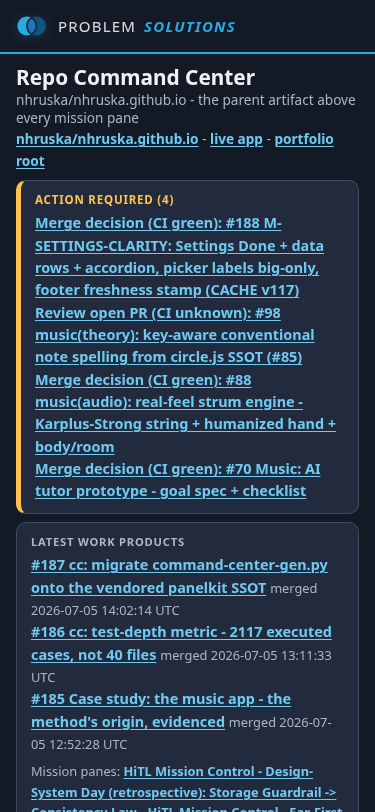
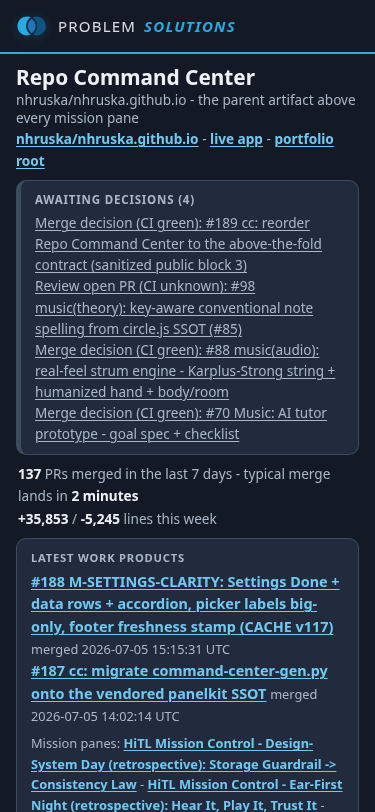
cc: interview rulings - two-tier HiTL + velocity line above the fold (+ main sync)
Applies the 2026-07-05 operator interview rulings (encoded in workflows-hub
docs/company-control-panel-vision.md positions 1 + 1b):

- Two-tier HiTL: tier 1 (broken/blocking) loud red; tier 2 (routine merge
  decisions) present but muted - tier-2-only strips read "Awaiting
  decisions (N)" with quiet styling. At a heavy merge cadence the strip
  never screams; nothing hides.
- Velocity line under the strip: "137 PRs merged in the last 7 days -
  typical merge lands in 2 minutes" + "+35,853 / -5,245 lines this week".
  Merged count via ONE search-API total_count call; LOC from THIS local
  clone (git log origin/main --since --numstat) with a BOUNDARY-AWARE
  shallow guard (a 28-day shallow clone still yields an accurate 7-day
  LOC; windows the cut history cannot cover are omitted honestly - the
  weekly charting series stops at the boundary, 3 of 4 weeks here);
  typical-merge median from recentMerges' additive createdAt.
- Fold compensation: products card shows 2 recent merges (was 3) so
  blocks 1-5 + the velocity row stay above 900px at 1280x900 (asserted).
- Merged origin/main (post-#188, CACHE v117) so the payload's deploy
  cache-sync reading reflects current main, not a stale branch base.
  check-cache-bump.sh: no music/ core changes in this branch's own diff.

command-center-gen.py 0.4.0; payload regenerated (2138 cases / 42 suites
after the sync).

Changed region(s): [[0.0293, 0.2155, 0.9093, 1.0], [0.9387, 0.5542, 0.968, 0.585]]

diff --git a/docs/artifacts/cc/repo.html b/docs/artifacts/cc/repo.html
@@ -70,6 +70,15 @@ code{background:var(--accg);border-radius:4px;padding:1px 5px;font-size:.9em;fon
 .hitl.hitl-action .hitl-label{color:var(--warn)}
 .hitl.hitl-urgent .hitl-label{color:var(--hot)}
 .hitl ul{list-style:none;margin:0;padding:0;font-size:.9rem;line-height:1.55}
+/* Two-tier ruling (2026-07-05 interview): tier 1 (broken/blocking) loud, tier 2
+   (routine decisions) present but muted - one strip, nothing hidden. */
+.hitl.hitl-routine{border-left-color:var(--line)}
+.hitl.hitl-routine .hitl-label{color:var(--dim)}
+.hitl li.hitl-t2,.hitl li.hitl-t2 a{color:var(--dim);font-weight:500}
+.hitl li.hitl-t2{font-size:.85rem}
+/* Position 1b: velocity - plain-language lines above the fold. */
+.velocity-row{margin:8px 0;padding:0 2px;font-size:.85rem;color:var(--dim);display:flex;flex-wrap:wrap;gap:2px 18px}
+.velocity-row .vel-line strong{color:var(--txt);font-weight:800;font-variant-numeric:tabular-nums}
 .fold-card{background:var(--card);border:1px solid var(--line);border-radius:var(--brand-radius);padding:10px 14px;margin:8px 0}
 .fc-label{font-size:.7rem;font-weight:800;text-transform:uppercase;letter-spacing:.07em;color:var(--dim);margin-bottom:4px}
 .fold-card ul{list-style:none;margin:0;padding:0;font-size:.9rem;line-height:1.55}
@@ -100,6 +109,9 @@ code{background:var(--accg);border-radius:4px;padding:1px 5px;font-size:.9em;fon
 <div class="hitl-label" id="hitlLabel">Action required</div>
 <div id="hitlBody" class="fc-micro">Loading...</div>
 </div>
+
+<!-- Block 1b: velocity (2026-07-05 interview ruling - plain-language lines) -->
+<div class="velocity-row" id="velocityRow"></div>
 
 <!-- Block 2: latest work products -->
 <div class="fold-card" id="products">
@@ -234,17 +246,53 @@ function renderHitl(d){
     body.textContent = 'All tracked signals green - no open PRs awaiting a decision, deployed cache in sync.';
     return;
   }
-  items.sort(function(a, b){ return (b.urgent ? 1 : 0) - (a.urgent ? 1 : 0); });
-  strip.className = 'hitl ' + (items.some(function(i){ return i.urgent; }) ? 'hitl-urgent' : 'hitl-action');
-  label.textContent = 'Action required (' + items.length + ')';
+  // Two-tier ruling ("broken first, merges second"): tier 1 = urgent/
+  // blocking, loud; tier 2 = routine decisions, muted. One strip - at a
+  // heavy merge cadence the strip never screams, nothing hides.
+  var tier1 = items.filter(function(i){ return i.urgent; });
+  var tier2 = items.filter(function(i){ return !i.urgent; });
+  strip.className = 'hitl ' + (tier1.length ? 'hitl-urgent' : 'hitl-routine');
+  label.textContent = tier1.length
+    ? 'Action required (' + items.length + ')'
+    : 'Awaiting decisions (' + items.length + ')';
   body.className = '';
-  body.innerHTML = '<ul>' + items.map(function(i){ return '<li>' + i.html + '</li>'; }).join('') + '</ul>';
+  body.innerHTML = '<ul>' +
+    tier1.map(function(i){ return '<li>' + i.html + '</li>'; }).join('') +
+    tier2.map(function(i){ return '<li class="hitl-t2">' + i.html + '</li>'; }).join('') +
+  '</ul>';
+}
+
+// ---- Block 1b: velocity - plain-language lines (raw numbers stay in payload).
+function humanHours(h){
+  if (h == null) return null;
+  if (h < 1){ var m = Math.max(1, Math.round(h * 60)); return m + ' minute' + (m === 1 ? '' : 's'); }
+  if (h < 48){ var r = Math.round(h * 10) / 10; return r + ' hour' + (r === 1 ? '' : 's'); }
+  var d = Math.round((h / 24) * 10) / 10; return d + ' day' + (d === 1 ? '' : 's');
+}
+
+function renderVelocity(d){
+  var el = document.getElementById('velocityRow');
+  var vel = d.velocity;
+  if (!vel){ el.innerHTML = ''; return; }
+  var lines = [];
+  if (vel.merged_count !== null && vel.merged_count !== undefined){
+    var line = '<strong>' + vel.merged_count + '</strong> PR' + (vel.merged_count === 1 ? '' : 's') +
+      ' merged in the last ' + (vel.window_days || 7) + ' days';
+    var t = humanHours(vel.typical_merge_hours);
+    if (t) line += ' - typical merge lands in <strong>' + esc(t) + '</strong>';
+    lines.push(line);
+  }
+  if (vel.loc){
+    lines.push('<strong>+' + vel.loc.added.toLocaleString() + '</strong> / <strong>-' +
+      vel.loc.deleted.toLocaleString() + '</strong> lines this week');
+  }
+  el.innerHTML = lines.map(function(l){ return '<span class="vel-line">' + l + '</span>'; }).join('');
 }
 
 // ---- Block 2: latest work products - recent merges + shipped mission panes.
 function renderProducts(d){
   var body = document.getElementById('productsBody');
-  var merges = (d.recentMerges || []).slice(0, 3);
+  var merges = (d.recentMerges || []).slice(0, 2);
   var panes = (d.missions || []).slice(0, 3);
   var html = '';
   if (merges.length){
@@ -493,6 +541,7 @@ function renderOps(d){
 
 function render(d){
   renderHitl(d);
+  renderVelocity(d);
   renderProducts(d);
   renderShipped(d);
   renderCockpit(d);

diff --git a/scripts/command-center-gen.py b/scripts/command-center-gen.py
@@ -67,7 +67,13 @@ REPO_ROOT = SCRIPT_DIR.parent
 # 0.3.0 = above-the-fold contract pass (additive lastCiRun field; viewer
 # reordered to the contract - see workflows-hub
 # docs/company-control-panel-vision.md "The above-the-fold contract").
-GEN_VERSION = "0.3.0"
+# 0.4.0 = position 1b velocity (interview ruling): merged count via one
+# search-API call, LOC from THIS local clone (git log --numstat, shallow-
+# guarded), typical-merge median from recentMerges createdAt (additive).
+GEN_VERSION = "0.4.0"
+
+VELOCITY_WINDOW_DAYS = 7
+VELOCITY_WEEKS = 4
 PLANS_DIR = REPO_ROOT / "docs" / "plans"
 ARTIFACTS_DIR = REPO_ROOT / "docs" / "artifacts"
 OUTPUT_PATH = ARTIFACTS_DIR / "cc" / "payload-repo.json"
@@ -139,7 +145,9 @@ def fetch_recent_merges(envelope, limit=15):
     n/created_at) - see the module docstring."""
     merges = panelkit.gh_json(
         "pr", "list", "-R", REPO_SLUG, "--state", "merged", "--limit", str(limit),
-        "--json", "number,title,mergedAt,url",
+        # createdAt is additive (0.4.0): feeds the velocity block's
+        # typical-merge median; the locked number/mergedAt/url keys stand.
+        "--json", "number,title,mergedAt,url,createdAt",
     )
     if not isinstance(merges, list):
         panelkit.mark_partial(envelope, "merged-PR list fetch failed - recentMerges is empty this run")
@@ -179,6 +187,124 @@ def fetch_latest_ci_run(envelope):
         "durationSeconds": duration_seconds,
         "url": r.get("html_url"),
         "headBranch": r.get("head_branch"),
+    }
+
+
+def _run_git(*args, timeout=60):
+    """Read-only git against THIS repo checkout; None on any failure."""
+    try:
+        proc = subprocess.run(
+            ["git", "-C", str(REPO_ROOT), *args],
+            capture_output=True, text=True, timeout=timeout,
+        )
+    except (OSError, subprocess.TimeoutExpired):
+        return None
+    return proc.stdout if proc.returncode == 0 else None
+
+
+def _loc_between(since_days, until_days=0):
+    """+added/-deleted on origin/main between since_days and until_days ago
+    via --numstat (binary '-' rows skipped). None on git failure."""
+    args = ["log", "origin/main", f"--since={since_days} days ago", "--numstat", "--format="]
+    if until_days:
+        args.insert(2, f"--until={until_days} days ago")
+    out = _run_git(*args)
+    if out is None:
+        return None
+    added = deleted = 0
+    for line in out.splitlines():
+        parts = line.split("\t")
+        if len(parts) >= 2 and parts[0].isdigit() and parts[1].isdigit():
+            added += int(parts[0])
+            deleted += int(parts[1])
+    return {"added": added, "deleted": deleted}
+
+
+def fetch_velocity(envelope, recent_merges):
+    """Position 1b (above-the-fold contract, 2026-07-05 interview ruling):
+    merged count via ONE search-API total_count call (accurate at any
+    volume - never the capped recentMerges list); LOC from THIS local
+    clone (`git log origin/main --since --numstat` - free, zero API cost),
+    shallow-guarded so a CI depth-1 checkout omits LOC honestly instead of
+    silently undercounting; typical-merge median from recentMerges'
+    createdAt/mergedAt (plain-language rendered by the viewer). A 4-week
+    LOC series rides along for later charting."""
+    from datetime import timedelta
+
+    since = (datetime.now(timezone.utc) - timedelta(days=VELOCITY_WINDOW_DAYS)).strftime("%Y-%m-%d")
+    result = panelkit.gh_json(
+        "api", f"search/issues?q=repo:{REPO_SLUG}+is:pr+is:merged+merged:>={since}",
+    )
+    merged_count = None
+    if isinstance(result, dict) and "total_count" in result:
+        merged_count = int(result["total_count"])
+    else:
+        panelkit.mark_partial(envelope, "velocity merged-count search failed - count line omitted this run")
+
+    # Shallow guard, boundary-aware: a shallow checkout only invalidates a
+    # window the cut history fails to cover (with a 1-day margin). A CI
+    # depth-1 checkout omits everything honestly; a 28-day shallow local
+    # clone still yields an accurate 7-day LOC.
+    def history_covers(days):
+        if (_run_git("rev-parse", "--is-shallow-repository") or "").strip() != "true":
+            return True
+        out = _run_git("log", "origin/main", "--reverse", "--format=%cI")
+        if not out or not out.splitlines():
+            return False
+        try:
+            oldest = datetime.fromisoformat(out.splitlines()[0])
+        except ValueError:
+            return False
+        return oldest <= datetime.now(timezone.utc) - timedelta(days=days + 1)
+
+    loc = None
+    weekly = None
+    loc_note = None
+    if not history_covers(VELOCITY_WINDOW_DAYS):
+        loc_note = (
+            "checkout history is too shallow to cover the "
+            f"{VELOCITY_WINDOW_DAYS}-day window - LOC omitted, never guessed"
+        )
+    else:
+        loc = _loc_between(VELOCITY_WINDOW_DAYS)
+        if loc is None:
+            loc_note = "git log failed - LOC omitted this run"
+        else:
+            today = datetime.now(timezone.utc).date()
+            weekly = []
+            for w in range(VELOCITY_WEEKS):
+                if not history_covers(7 * (w + 1)):
+                    break  # older weeks would silently undercount - stop honestly
+                span = _loc_between(7 * (w + 1), 7 * w)
+                if span is None:
+                    continue
+                weekly.append({
+                    "week_start": (today - timedelta(days=7 * (w + 1))).isoformat(),
+                    "loc_added": span["added"],
+                    "loc_deleted": span["deleted"],
+                })
+
+    # Typical merge time: median lead-time hours over the recentMerges
+    # sample that carries both timestamps (plain-language at render; the
+    # raw number stays here for agents).
+    hours = sorted(
+        h for h in (
+            panelkit.lead_time_hours(m.get("createdAt"), m.get("mergedAt"))
+            for m in recent_merges
+        ) if h is not None
+    )
+    typical = None
+    if hours:
+        mid = len(hours) // 2
+        typical = round(hours[mid] if len(hours) % 2 else (hours[mid - 1] + hours[mid]) / 2, 2)
+
+    return {
+        "window_days": VELOCITY_WINDOW_DAYS,
+        "merged_count": merged_count,
+        "loc": loc,
+        "loc_note": loc_note,
+        "typical_merge_hours": typical,
+        "weekly": weekly,
     }
 
 
@@ -395,6 +521,7 @@ def main():
     head = commits[0] if commits else None
     open_prs = fetch_open_prs(envelope)
     recent_merges = fetch_recent_merges(envelope)
+    velocity = fetch_velocity(envelope, recent_merges)
     last_ci_run = fetch_latest_ci_run(envelope)
     pages = fetch_pages_status(envelope)
     live_cache = fetch_live_cache_version()
@@ -428,6 +555,7 @@ def main():
         "openPRs": open_prs,
         "recentMerges": recent_merges,
         "lastCiRun": last_ci_run,
+        "velocity": velocity,
         "deploy": {
             "pages": pages,
             "liveCacheVersion": live_cache,